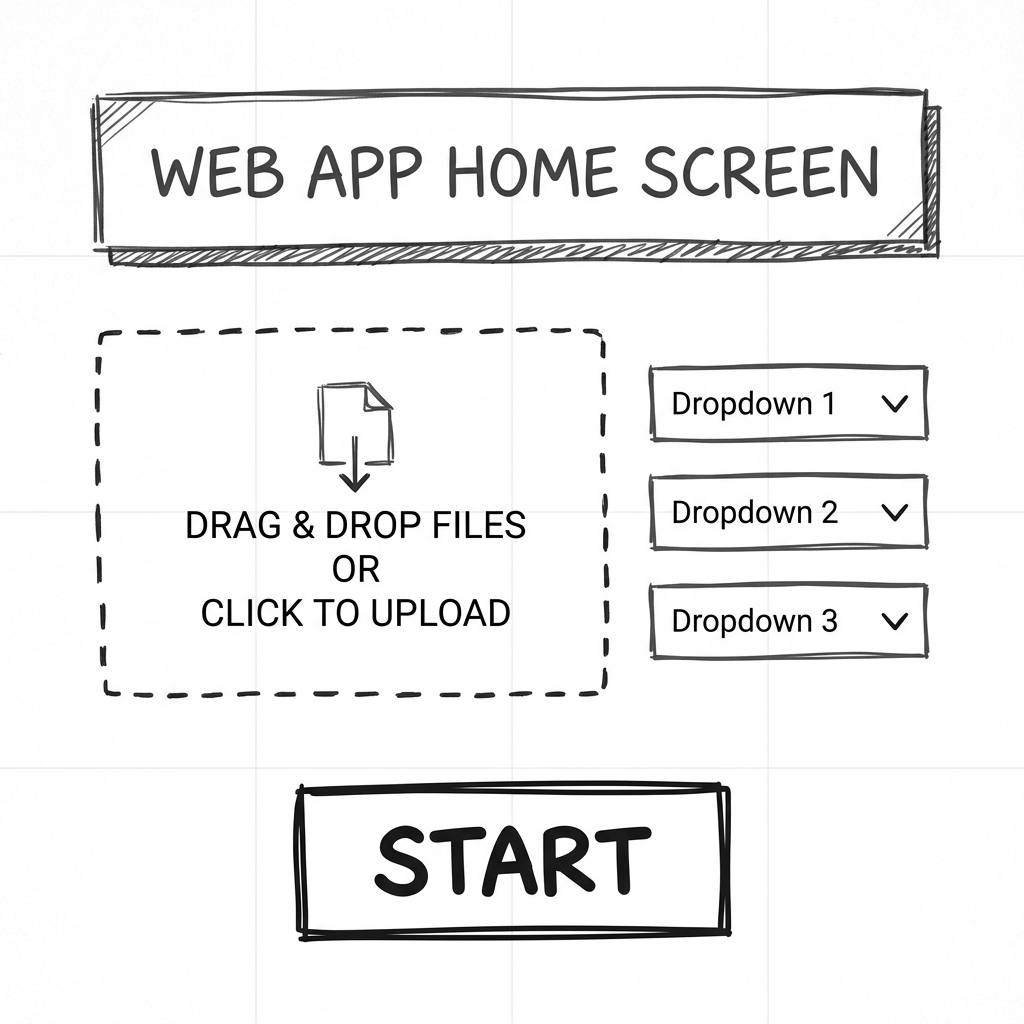
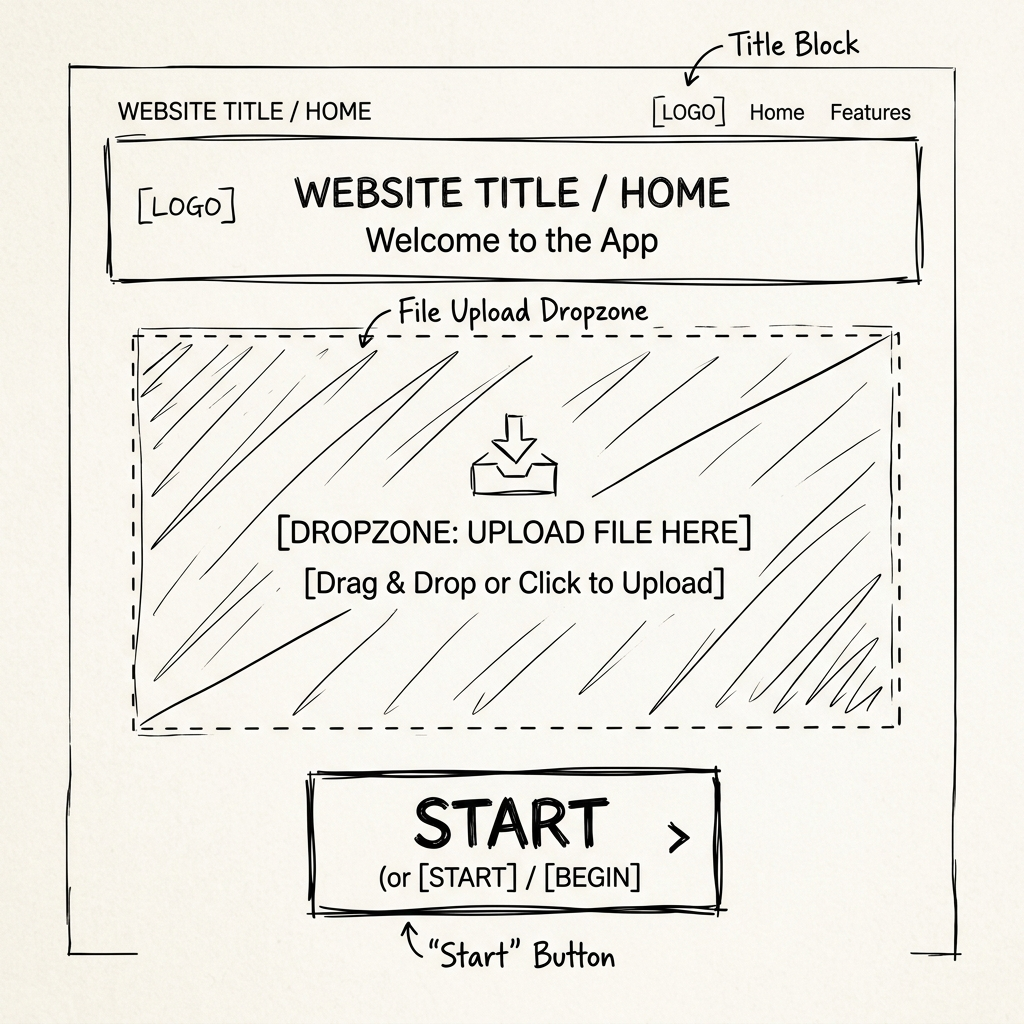
docs: Remove dropdowns from page 1 and rely on AI parsing

diff --git a/features.md b/features.md
@@ -1,10 +1,9 @@
-
 # ⚙️ 기능 명세 및 백로그 (Feature Specifications & Backlog)
 
 ## 1. 핵심 노드(Node)별 기능 구체화
 
 ### 기능 1: 이력서 분석 및 맞춤형 컨텍스트 추출 (Resume Parsing Node)
-* **입력:** 사용자가 업로드한 이력서 PDF 파일, 지원 직무, 경력 연차
+* **입력:** 사용자가 업로드한 이력서 PDF 파일
 * **처리 로직:**
   1. `PyPDF2`를 이용해 PDF 파일 내의 모든 텍스트를 추출.
   2. 추출된 텍스트를 LLM에 전달하여 **3가지 핵심 정보**를 JSON 형태로 구조화.

diff --git a/storyboard.md b/storyboard.md
@@ -10,7 +10,7 @@
   * **큰 타이틀:** "👔 Tech-Interviewer AI"
   * **서브 텍스트:** "당신의 이력서를 분석하여 실제 면접처럼 날카로운 꼬리 질문을 던집니다."
   * **파일 업로드 박스:** 화면 정중앙에 큼직하게 배치 (`이력서 PDF 업로드`)
-  * **설정 폼:** 지원 직무 선택, 경력 연차 선택
+
   * **업로드 버튼:** "📄 이력서 분석하기"
 * **인터랙션:** 버튼 클릭 시 이력서 파싱이 시작(로딩 스피너)되며, 완료 시 Page 2로 전환.
 